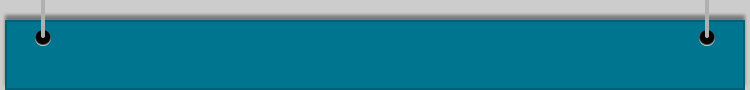
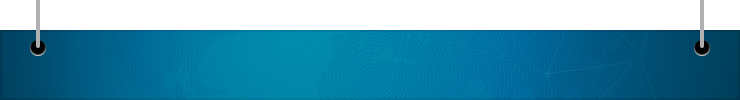
Updates to DOCKER email blast since Eloqua went live.

diff --git a/public_html/docker_email_blast.html b/public_html/docker_email_blast.html
@@ -22,18 +22,13 @@ img{display:block;}
           <td>
           
           <table width="700" align="center"  cellpadding="0" cellspacing="0">
-          
-           <!-- Text Block row 
-              <tr>
-                <td colspan="2"><img src="https://raw.githubusercontent.com/chipbaber/workshopemailtemplate/master/public_html/images/connectingbars.png" style="display:block"></td>
-              </tr>
-              -->
               <tr>
                 <td colspan="2" style="background-color:#fff;padding:20px 40px;">
                 <h1 style="font-family:Segoe Segoe, 'Segoe UI', 'DejaVu Sans', 'Trebuchet MS', Verdana, sans-serifArial, 'Myriad Pro', 'Gill Sans', 'Gill Sans MT',  'DejaVu Sans Condensed', Helvetica, sans-serif;font-size:25px;color:#00758f;margin-top:0px;">
                 Containerized Development with Docker Workshop</h1>
-                <p style="font-family:Segoe Segoe, 'Segoe UI', 'DejaVu Sans', 'Trebuchet MS', Verdana, sans-serifArial, 'Myriad Pro', 'Gill Sans', 'Gill Sans MT',  'DejaVu Sans Condensed', Helvetica, sans-serif;font-size:16px;color:#2d2d2d">
-                    During this workshop you will assume the role of Evin, a developer inside a fictitious company called Alpha Office. Over the course of an hour you will follow Evin as he migrates a legacy virtual machine based application into the world of containers. The lab will teach you the fundamentals of Docker administration, development and showcase the resource efficiencies a containerization strategy can provide. 
+                <p style="font-family:Segoe Segoe, 'Segoe UI', 'DejaVu Sans', 'Trebuchet MS', Verdana, sans-serifArial, 'Myriad Pro', 'Gill Sans', 'Gill Sans MT',  'DejaVu Sans Condensed', Helvetica, sans-serif;font-size:15px;color:#2d2d2d">
+                    We would like to share with you our Containerized Development with Docker Hands on Lab. During this workshop you will assume the role of Evin, a developer inside a fictitious company called Alpha Office. Over the course of an hour you will follow Evin as he migrates a legacy virtual machine based application into the world of containers . The hands on lab will teach you the fundamentals of Docker administration, development and showcase the resource efficiencies a containerization strategy can provide.
+                    <br><br>Whether you or your customers are a novice or advanced developers, this hands on lab will help you experience the power of Containers, Microservices and Docker in the Oracle Cloud. 
                 </p>
                 </td>
               </tr>
@@ -48,18 +43,12 @@ img{display:block;}
                     <tr>
                       <td width="60%"><img src="https://raw.githubusercontent.com/chipbaber/workshopemailtemplate/master/public_html/images/docker_left1.png" style="display:block" width="342" height="160" alt="Workshop Icon Left Image"></td>
                       <td width="40%">
-                    <!--   <h2 style="font-family:Segoe Segoe, 'Segoe UI', 'DejaVu Sans', 'Trebuchet MS', Verdana, sans-serifArial, 'Myriad Pro', 'Gill Sans', 'Gill Sans MT',  'DejaVu Sans Condensed', Helvetica, sans-serif;font-size:20px;color:#00758f;margin-top:0px;">
-                      Getting Started Today
-                      <h2>
-                     <p style="font-family:Segoe Segoe, 'Segoe UI', 'DejaVu Sans', 'Trebuchet MS', Verdana, sans-serifArial, 'Myriad Pro', 'Gill Sans', 'Gill Sans MT',  'DejaVu Sans Condensed', Helvetica, sans-serif;font-size:16px;color:#2d2d2d">
-                      Watch Overview Video
-                      </p>-->
                         <table width="100%" border="0" cellspacing="0" cellpadding="0">
                           <tr>
                             <td><table border="0" cellspacing="0" cellpadding="0">
                                 <tr>
                                   <td bgcolor="#00758f" style="padding: 5px 25px 5px 25px; border-radius:0px" align="center">
-                                  <a href="#" target="_blank" style="font-size: 25px; font-family:Segoe Segoe, 'Segoe UI', 'DejaVu Sans', 'Trebuchet MS', Verdana, sans-serifArial, 'Myriad Pro', 'Gill Sans', 'Gill Sans MT',  'DejaVu Sans Condensed', Helvetica, sans-serif; font-weight: normal; font-size:22px; color: #ffffff; text-decoration: none; display: inline-block;">
+                                  <a href="https://youtu.be/ivNEREBsH9k" target="_blank" style="font-size: 25px; font-family:Segoe Segoe, 'Segoe UI', 'DejaVu Sans', 'Trebuchet MS', Verdana, sans-serifArial, 'Myriad Pro', 'Gill Sans', 'Gill Sans MT',  'DejaVu Sans Condensed', Helvetica, sans-serif; font-weight: normal; font-size:22px; color: #ffffff; text-decoration: none; display: inline-block;">
                                   Watch Overview
                                   </a>
                                   </td>
@@ -85,7 +74,7 @@ img{display:block;}
                             <td><table border="0" cellspacing="0" cellpadding="0">
                                 <tr>
                                   <td bgcolor="#00758f" style="padding: 5px 25px 5px 25px; border-radius:0px" align="center">
-                                  <a href="#" target="_blank" style="font-size: 25px; font-family:Segoe Segoe, 'Segoe UI', 'DejaVu Sans', 'Trebuchet MS', Verdana, sans-serifArial, 'Myriad Pro', 'Gill Sans', 'Gill Sans MT',  'DejaVu Sans Condensed', Helvetica, sans-serif; font-weight: normal; color: #ffffff; text-decoration: none; font-size:22px; display: inline-block;">
+                                  <a href="https://go.oracle.com/docker" target="_blank" style="font-size: 25px; font-family:Segoe Segoe, 'Segoe UI', 'DejaVu Sans', 'Trebuchet MS', Verdana, sans-serifArial, 'Myriad Pro', 'Gill Sans', 'Gill Sans MT',  'DejaVu Sans Condensed', Helvetica, sans-serif; font-weight: normal; color: #ffffff; text-decoration: none; font-size:22px; display: inline-block;">
                                   Access Workshop
                                   </a>
                                   </td>
@@ -114,8 +103,8 @@ img{display:block;}
                       </h1>
                       <p style="font-family:Segoe Segoe, 'Segoe UI', 'DejaVu Sans', 'Trebuchet MS', Verdana, sans-serifArial, 'Myriad Pro', 'Gill Sans', 'Gill Sans MT',  'DejaVu Sans Condensed', Helvetica, sans-serif; font-weight: normal; color:#2d2d2d;font-size:14px; display: inline-block;">
                       Email 
-                      <a href="#" target="_blank" style="font-family:Segoe Segoe, 'Segoe UI', 'DejaVu Sans', 'Trebuchet MS', Verdana, sans-serifArial, 'Myriad Pro', 'Gill Sans', 'Gill Sans MT',  'DejaVu Sans Condensed', Helvetica, sans-serif; font-weight: normal; color:#2d2d2d; font-size:14px; display: inline-block;">
-                      needAddress@oracle.com 
+                      <a href="mailto:pat.davies@oracle.com?subject=Docker%20Hands%20on%20Lab%20Question" target="_blank" style="font-family:Segoe Segoe, 'Segoe UI', 'DejaVu Sans', 'Trebuchet MS', Verdana, sans-serifArial, 'Myriad Pro', 'Gill Sans', 'Gill Sans MT',  'DejaVu Sans Condensed', Helvetica, sans-serif; font-weight: normal; color:#2d2d2d; font-size:14px; display: inline-block;">
+                      pat.davies@oracle.com 
                       </a>
                       </p>
                       </td>
@@ -125,7 +114,7 @@ img{display:block;}
                       </h1>
                       <p style="font-family:Segoe Segoe, 'Segoe UI', 'DejaVu Sans', 'Trebuchet MS', Verdana, sans-serifArial, 'Myriad Pro', 'Gill Sans', 'Gill Sans MT',  'DejaVu Sans Condensed', Helvetica, sans-serif; font-weight: normal; color:#2d2d2d;font-size:14px; display: inline-block;">
                       Click to
-                      <a href="#" target="_blank" style="font-family:Segoe Segoe, 'Segoe UI', 'DejaVu Sans', 'Trebuchet MS', Verdana, sans-serifArial, 'Myriad Pro', 'Gill Sans', 'Gill Sans MT',  'DejaVu Sans Condensed', Helvetica, sans-serif; font-weight: normal; color:#2d2d2d; font-size:14px; display: inline-block;">
+                      <a href="https://confluence.oraclecorp.com/confluence/display/CSHDI/Highlighted+Assets" target="_blank" style="font-family:Segoe Segoe, 'Segoe UI', 'DejaVu Sans', 'Trebuchet MS', Verdana, sans-serifArial, 'Myriad Pro', 'Gill Sans', 'Gill Sans MT',  'DejaVu Sans Condensed', Helvetica, sans-serif; font-weight: normal; color:#2d2d2d; font-size:14px; display: inline-block;">
                       explore our other workshops.
                       </a>
                       </p>
@@ -138,7 +127,7 @@ img{display:block;}
          </td>
         </tr>
         <tr>
-          <td><img src="https://raw.githubusercontent.com/chipbaber/workshopemailtemplate/master/public_html/images/footerimage.png" style="display:block" width="750" height="90"></td>
+          <td><img src="https://raw.githubusercontent.com/chipbaber/workshopemailtemplate/master/public_html/images/footerimage_external.png" style="display:block" width="750" height="90"></td>
         </tr>
       </table></td>
   </tr>
